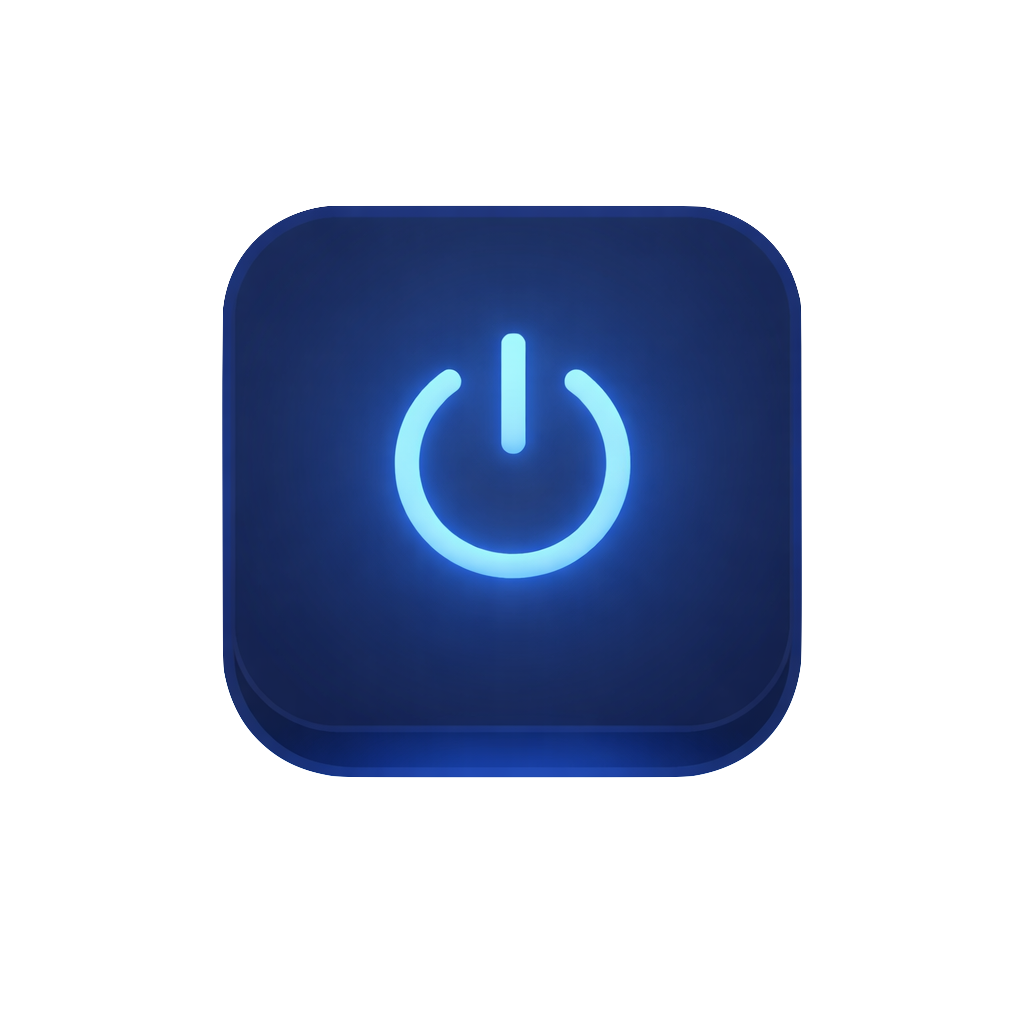
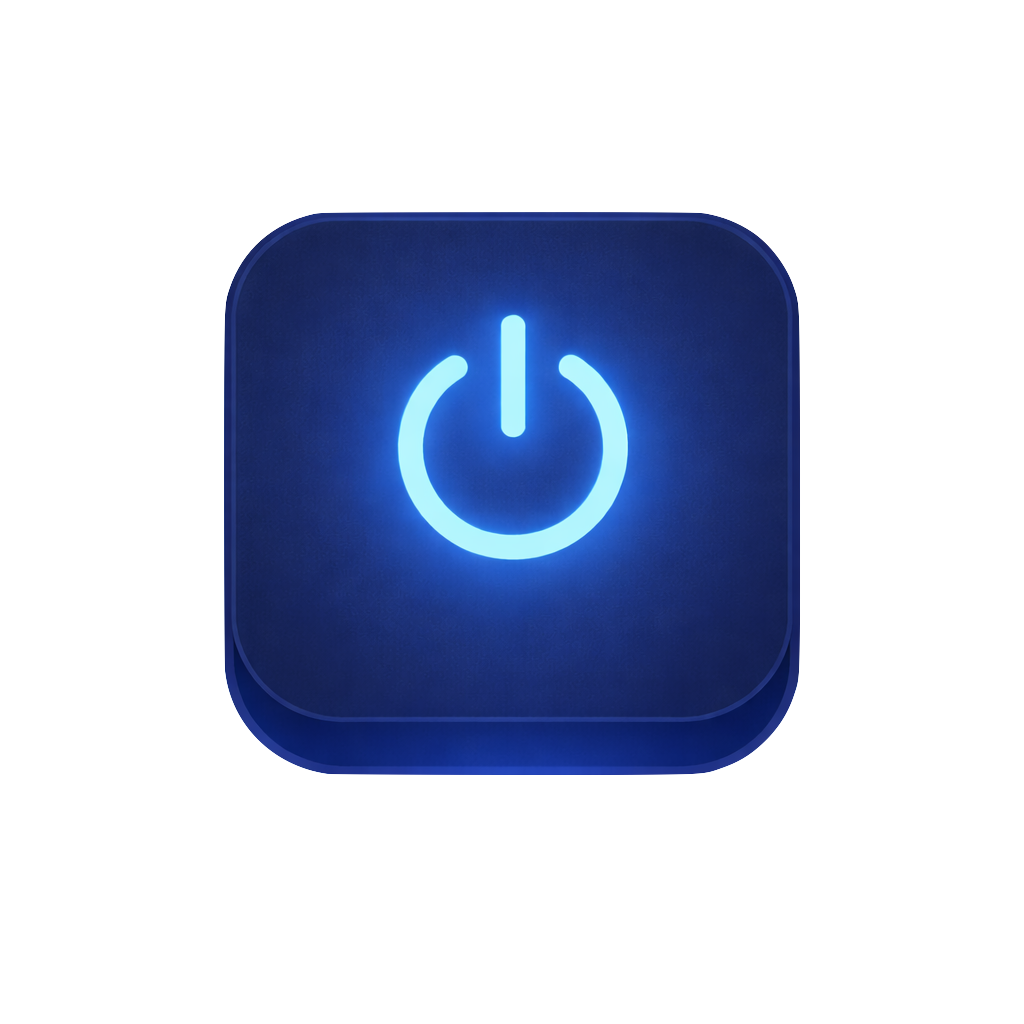
adding remainng fix for knobs and button

diff --git a/Source/PowerButton.cpp b/Source/PowerButton.cpp
@@ -19,6 +19,8 @@ PowerButton::PowerButton()
 
     buttonImageOn = juce::ImageCache::getFromMemory (BinaryData::power_button_on_png,
                                                      BinaryData::power_button_on_pngSize);
+    buttonImageOff = juce::ImageCache::getFromMemory (BinaryData::power_button_off_png,
+                                                      BinaryData::power_button_off_pngSize);
 }
 
 void PowerButton::paintButton (juce::Graphics& g, bool hovered, bool pressed)
@@ -30,28 +32,15 @@ void PowerButton::paintButton (juce::Graphics& g, bool hovered, bool pressed)
     clipPath.addRoundedRectangle (bounds, cornerRadius);
     g.reduceClipRegion (clipPath);
 
-    if (! buttonImageOn.isValid())
+    juce::Image& img = isOn ? buttonImageOn : buttonImageOff;
+    if (! img.isValid())
     {
         g.setColour (isOn ? juce::Colour (0xff1e3a8a) : juce::Colour (0xff1e293b));
         g.fillRoundedRectangle (bounds, cornerRadius);
         return;
     }
 
-    if (isOn)
-    {
-        float alpha = pressed ? 0.85f : 1.0f;
-        g.setOpacity (alpha);
-        g.drawImage (buttonImageOn, bounds, juce::RectanglePlacement::centred | juce::RectanglePlacement::fillDestination);
-    }
-    else
-    {
-        // OFF state: solid dark background first (no transparency bleed)
-        g.setOpacity (1.0f);
-        g.setColour (juce::Colour (0xff1e293b));
-        g.fillRoundedRectangle (bounds, cornerRadius);
-
-        // Draw dimmed image on top
-        g.setOpacity (0.5f);
-        g.drawImage (buttonImageOn, bounds, juce::RectanglePlacement::centred | juce::RectanglePlacement::fillDestination);
-    }
+    float alpha = pressed ? 0.85f : 1.0f;
+    g.setOpacity (alpha);
+    g.drawImage (img, bounds, juce::RectanglePlacement::centred | juce::RectanglePlacement::fillDestination);
 }

diff --git a/Source/PluginProcessor.cpp b/Source/PluginProcessor.cpp
@@ -24,6 +24,7 @@ GhostlineAudioProcessor::GhostlineAudioProcessor()
 #endif
 {
     // Get parameter pointers
+    powerParam = apvts.getRawParameterValue("POWER");
     delayTimeParam = apvts.getRawParameterValue("DELAYTIME");
     feedbackParam = apvts.getRawParameterValue("FEEDBACK");
     wetLevelParam = apvts.getRawParameterValue("WET");
@@ -175,6 +176,10 @@ void GhostlineAudioProcessor::processBlock (juce::AudioBuffer<float>& buffer, ju
 
     for (auto i = totalNumInputChannels; i < totalNumOutputChannels; ++i)
         buffer.clear (i, 0, buffer.getNumSamples());
+
+    // Power off: bypass effect (pass through - buffer already contains input)
+    if (powerParam != nullptr && powerParam->load() < 0.5f)
+        return;
 
     // Safety check - ensure delay buffers are initialized
     if (delayBuffer.size() < 2 || delayBuffer[0].size() == 0 || delayBuffer[1].size() == 0)
@@ -344,6 +349,12 @@ void GhostlineAudioProcessor::updateParameters()
 juce::AudioProcessorValueTreeState::ParameterLayout GhostlineAudioProcessor::createParameterLayout()
 {
     std::vector<std::unique_ptr<juce::RangedAudioParameter>> params;
+
+    // Power: on/off, default on
+    params.push_back (std::make_unique<juce::AudioParameterBool>(
+        juce::ParameterID ("POWER", 1), "Power",
+        true
+    ));
 
     // Delay Time: 0.01 to 2.0 seconds, default 0.4
     params.push_back (std::make_unique<juce::AudioParameterFloat>(

diff --git a/Source/GhostLineLookAndFeel.cpp b/Source/GhostLineLookAndFeel.cpp
@@ -91,17 +91,12 @@ void GhostLineLookAndFeel::drawRotarySlider (juce::Graphics& g,
     g.drawEllipse (centre.x - faceRadius, centre.y - faceRadius,
                    faceRadius * 2.0f, faceRadius * 2.0f, 1.0f);
 
-    // 6) Needle - points to progressAngle (same angle as arc end)
+    // 6) Needle - use same Point::getPointOnCircumference as addCentredArc for exact match
     // At norm==0: progressAngle==startAngle, needle at far-left bottom
     // At norm==1: progressAngle==endAngle, needle at far-right bottom
-    float needleRadius = juce::jmin (bounds.getWidth(), bounds.getHeight()) * 0.42f;
-    float inner = needleRadius * 0.15f;
-    float outer = needleRadius * 0.95f;
-
-    juce::Point<float> p1 (centre.x + std::cos (progressAngle) * inner,
-                           centre.y + std::sin (progressAngle) * inner);
-    juce::Point<float> p2 (centre.x + std::cos (progressAngle) * outer,
-                           centre.y + std::sin (progressAngle) * outer);
+    float needleInner = radius * 0.15f;
+    juce::Point<float> p1 = centre.getPointOnCircumference (needleInner, needleInner, progressAngle);
+    juce::Point<float> p2 = centre.getPointOnCircumference (radius, radius, progressAngle);
 
     // Needle glow
     g.setColour (themeColour.withAlpha (0.5f));

diff --git a/Source/PluginEditor.cpp b/Source/PluginEditor.cpp
@@ -15,8 +15,10 @@ GhostlineAudioProcessorEditor::GhostlineAudioProcessorEditor (GhostlineAudioProc
 {
     setBufferedToImage (true);
 
-    // Power button
+    // Power button - connected to POWER parameter (bypass when off)
     addAndMakeVisible (powerButton);
+    powerAttachment = std::make_unique<juce::AudioProcessorValueTreeState::ButtonAttachment>(
+        audioProcessor.apvts, "POWER", powerButton);
 
     // Spectrum display
     addAndMakeVisible (spectrumDisplay);
@@ -86,6 +88,7 @@ GhostlineAudioProcessorEditor::GhostlineAudioProcessorEditor (GhostlineAudioProc
 GhostlineAudioProcessorEditor::~GhostlineAudioProcessorEditor()
 {
     // Detach from processor before components are destroyed (reduces callback races on teardown)
+    powerAttachment.reset();
     delayTimeAttachment.reset();
     feedbackAttachment.reset();
     wetAttachment.reset();

diff --git a/Source/PluginEditor.h b/Source/PluginEditor.h
@@ -49,6 +49,7 @@ private:
     std::array<ModernKnobComponent*, 6> knobs {};
     ModernKnobComponent delayTimeKnob, feedbackKnob, wetKnob, dryKnob, modRateKnob, modDepthKnob;
 
+    std::unique_ptr<juce::AudioProcessorValueTreeState::ButtonAttachment> powerAttachment;
     std::unique_ptr<juce::AudioProcessorValueTreeState::SliderAttachment> delayTimeAttachment;
     std::unique_ptr<juce::AudioProcessorValueTreeState::SliderAttachment> feedbackAttachment;
     std::unique_ptr<juce::AudioProcessorValueTreeState::SliderAttachment> wetAttachment;

diff --git a/Source/PluginProcessor.h b/Source/PluginProcessor.h
@@ -61,7 +61,8 @@ public:
     static juce::AudioProcessorValueTreeState::ParameterLayout createParameterLayout();
     juce::AudioProcessorValueTreeState apvts{ *this, nullptr, "Parameters", createParameterLayout() };
 
-    // Delay parameters
+    // Parameters
+    std::atomic<float>* powerParam = nullptr;
     std::atomic<float>* delayTimeParam = nullptr;
     std::atomic<float>* feedbackParam = nullptr;
     std::atomic<float>* wetLevelParam = nullptr;

diff --git a/Source/PowerButton.h b/Source/PowerButton.h
@@ -22,6 +22,7 @@ public:
 
 private:
     juce::Image buttonImageOn;
+    juce::Image buttonImageOff;
     static constexpr float cornerRadius = 16.0f;
 
     JUCE_DECLARE_NON_COPYABLE_WITH_LEAK_DETECTOR (PowerButton)
